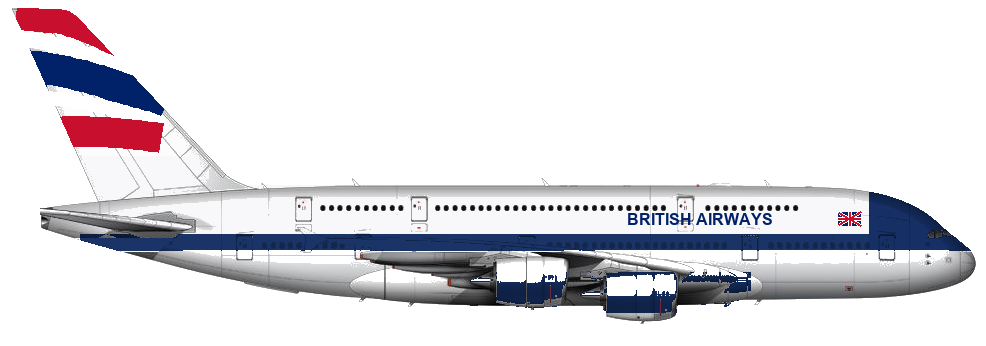
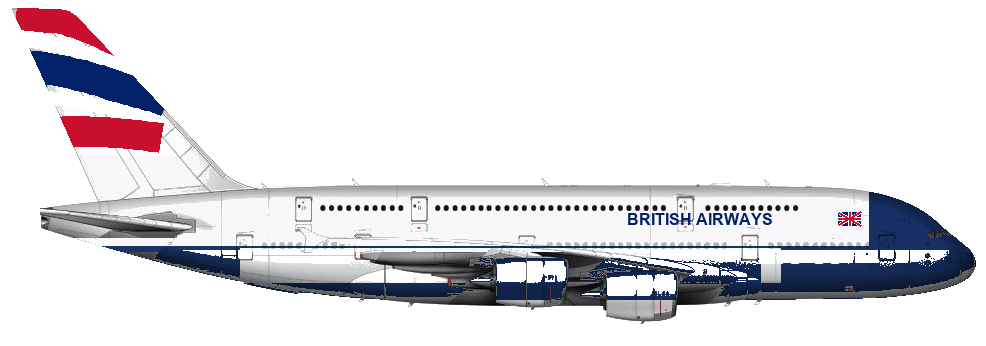
Drop the BA A380 blue onto the belly, not mid-fuselage.
The navy now sits on the underside and nose like the A320, instead of a stripe through the cabin.

diff --git a/flight-simulator-2026/js/game.js b/flight-simulator-2026/js/game.js
@@ -72,7 +72,7 @@ class Game {
       const load = (file, key) => {
         const img = new Image();
         img.onload = () => { pack[key] = img; };
-        img.src = `${base}${file}?v=liv13`;
+        img.src = `${base}${file}?v=liv14`;
       };
       load(`${prefix}-gearup.png`, "up");
       load(`${prefix}-geardown.png`, "down");
@@ -97,7 +97,7 @@ class Game {
       const load = (file, key) => {
         const img = new Image();
         img.onload = () => { pack[key] = img; };
-        img.src = `${base}${file}?v=liv13`;
+        img.src = `${base}${file}?v=liv14`;
       };
       load(`${prefix}-gearup.png`, "up");
       load(`${prefix}-geardown.png`, "down");

diff --git a/flight-simulator-2026/index.html b/flight-simulator-2026/index.html
@@ -153,7 +153,7 @@
   <script src="js/input.js?v=hump38"></script>
   <script src="js/hud.js?v=hump38"></script>
   <script src="js/loading.js?v=hump38"></script>
-  <script src="js/game.js?v=a380liv4"></script>
+  <script src="js/game.js?v=a380liv5"></script>
   <script src="js/mobile.js?v=hump38"></script>
   <script src="js/menu.js?v=free1"></script>
   <script src="js/main.js"></script>
